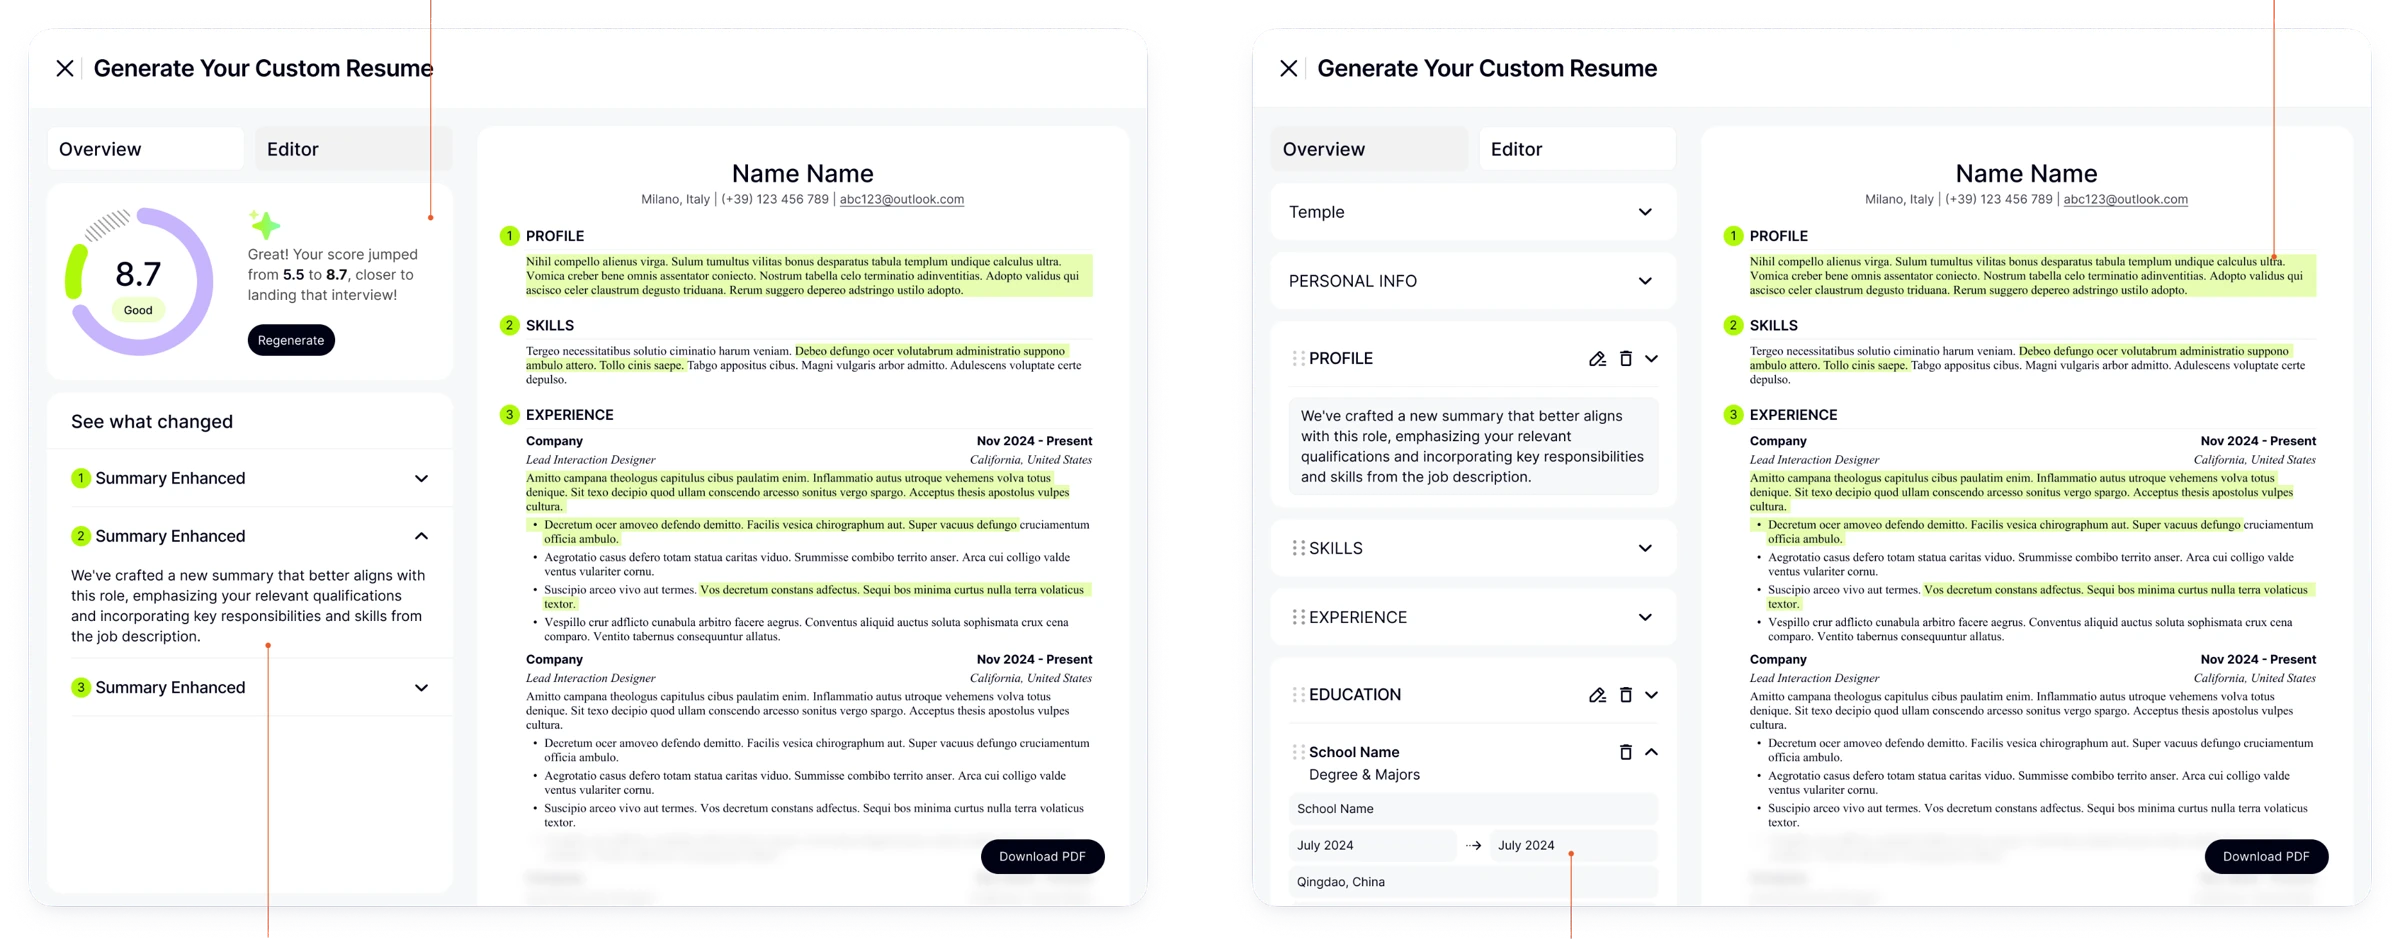
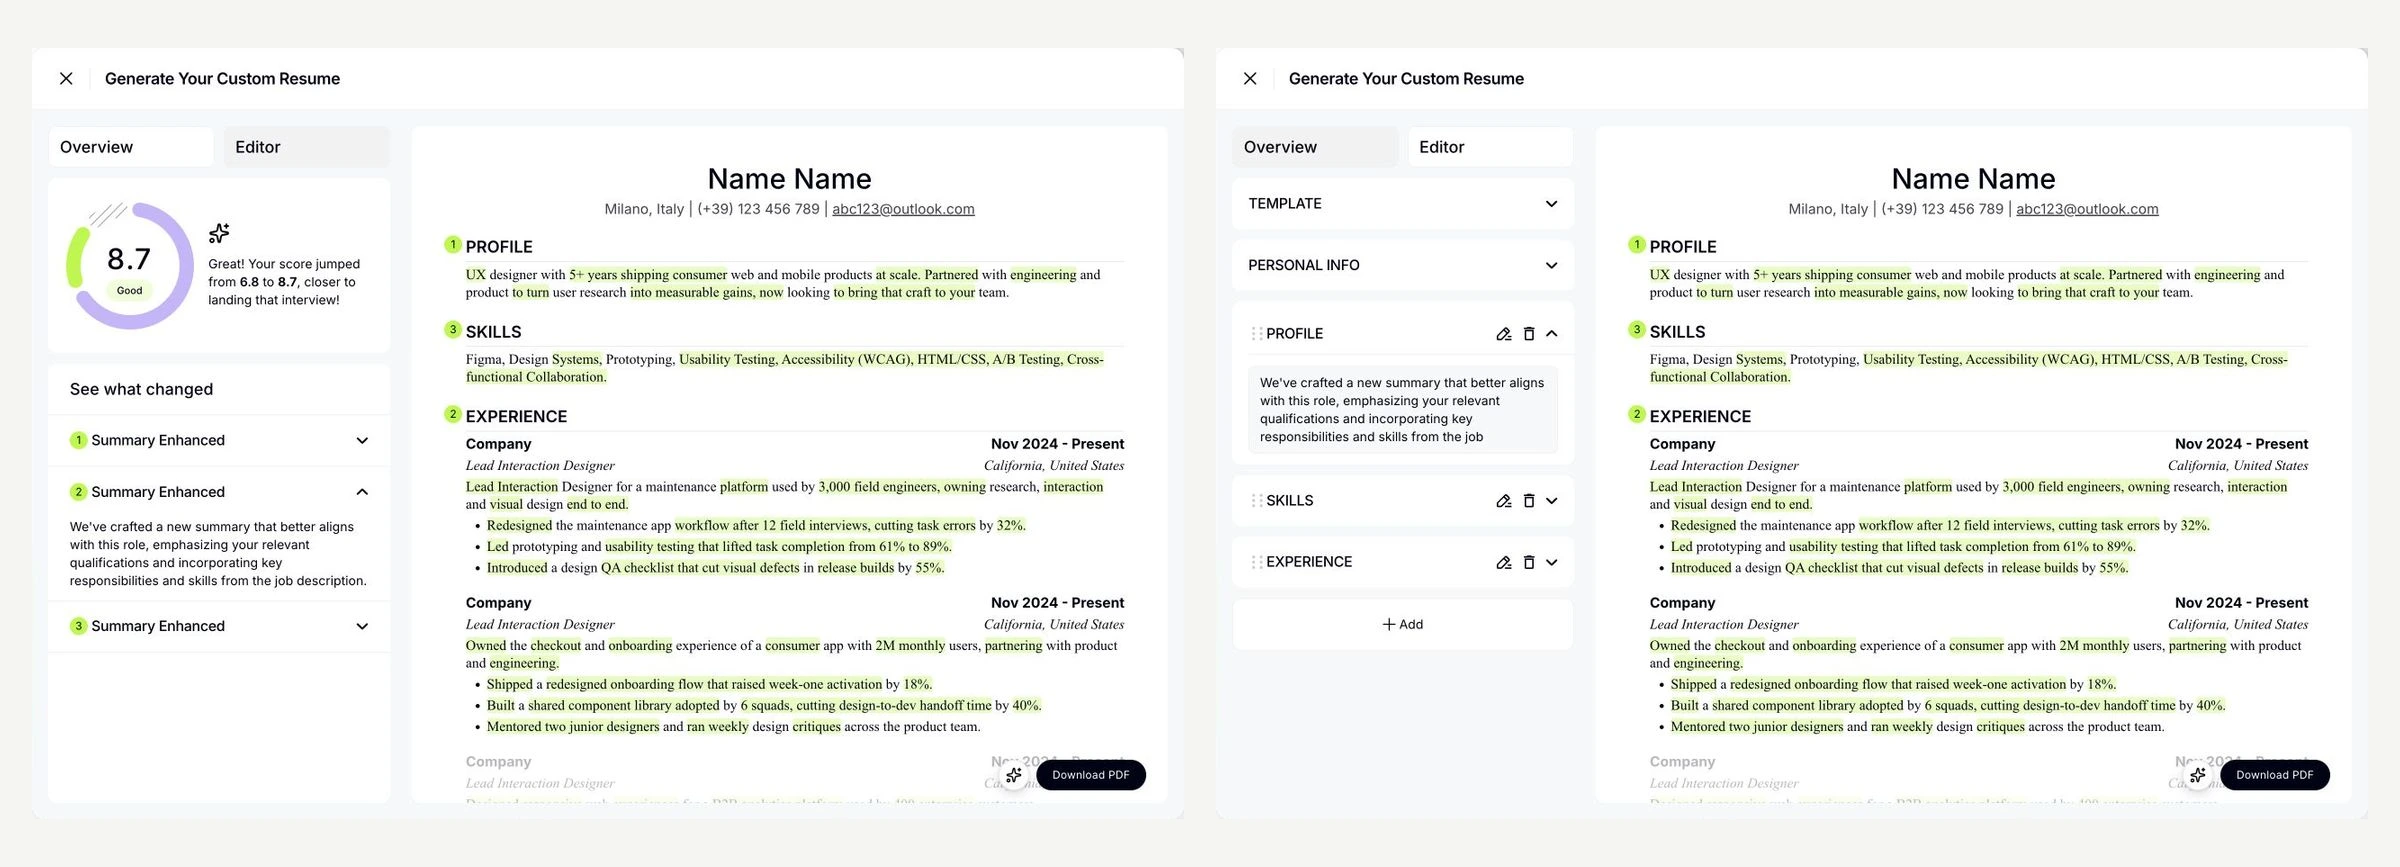
Update Jobnova resume dialog screenshots and refresh image cache

diff --git a/src/app/projects/jobnova-kit/page.tsx b/src/app/projects/jobnova-kit/page.tsx
@@ -1,5 +1,6 @@
 import type { Metadata } from 'next';
 import Image from 'next/image';
+import resumeReviewScreenshot from '../../../../public/img/jobnova/evidence/resume-overview-editor.webp';
 import { ChartNoAxesCombined, ClipboardCheck, Compass, FilePenLine, GitBranch, Layers3, ListChecks, MessageSquareText, ScanSearch, ShieldCheck, SlidersHorizontal, UserRoundCheck, Users, Waypoints } from 'lucide-react';
 import { CaseKitBackButton as CaseStudyBackButton } from '../../components/CaseStudyBackButton';
 import { CaseKitControls as CaseStudyControls } from '../../components/CaseStudyControls';
@@ -93,7 +94,7 @@ export default function JobnovaKitPage() {
         <CaseChapter label="05 / Review the changes" title="AI can rewrite the resume. The user stays its author.">
           <CaseProse><p>I designed two review levels: an overview of what changed, followed by section-level editing. This lets people check the output and correct their story before using it.</p></CaseProse>
           <CaseVideo src="/videos/jobnova/resume-review.mp4" poster="/videos/jobnova/resume-review.webp" width={1828} height={1080} label="Recorded JobNova resume generation and editing walkthrough" caption="Recorded product walkthrough · Generate a tailored resume, inspect changes, and move into editing. The recording demonstrates the interaction; it is not a timed usability test." />
-          <Screenshot src="/img/jobnova/evidence/resume-overview-editor.webp" width={2400} height={944} alt="Resume overview with change summaries beside the section editor and highlighted document preview" caption="Overview → editor · Change summaries support initial review; editable sections support precise corrections. Preview content is sample copy." />
+          <Screenshot src={resumeReviewScreenshot.src} width={resumeReviewScreenshot.width} height={resumeReviewScreenshot.height} alt="Resume overview with change summaries beside the section editor and highlighted document preview" caption="Overview → editor · Change summaries support initial review; editable sections support precise corrections. Preview content is sample copy." />
           <CaseProse><p><strong>The tradeoff:</strong> a finished document hides the work needed to verify it. I exposed changes and editing controls rather than treating generation as completion.</p></CaseProse>
         </CaseChapter>
 
